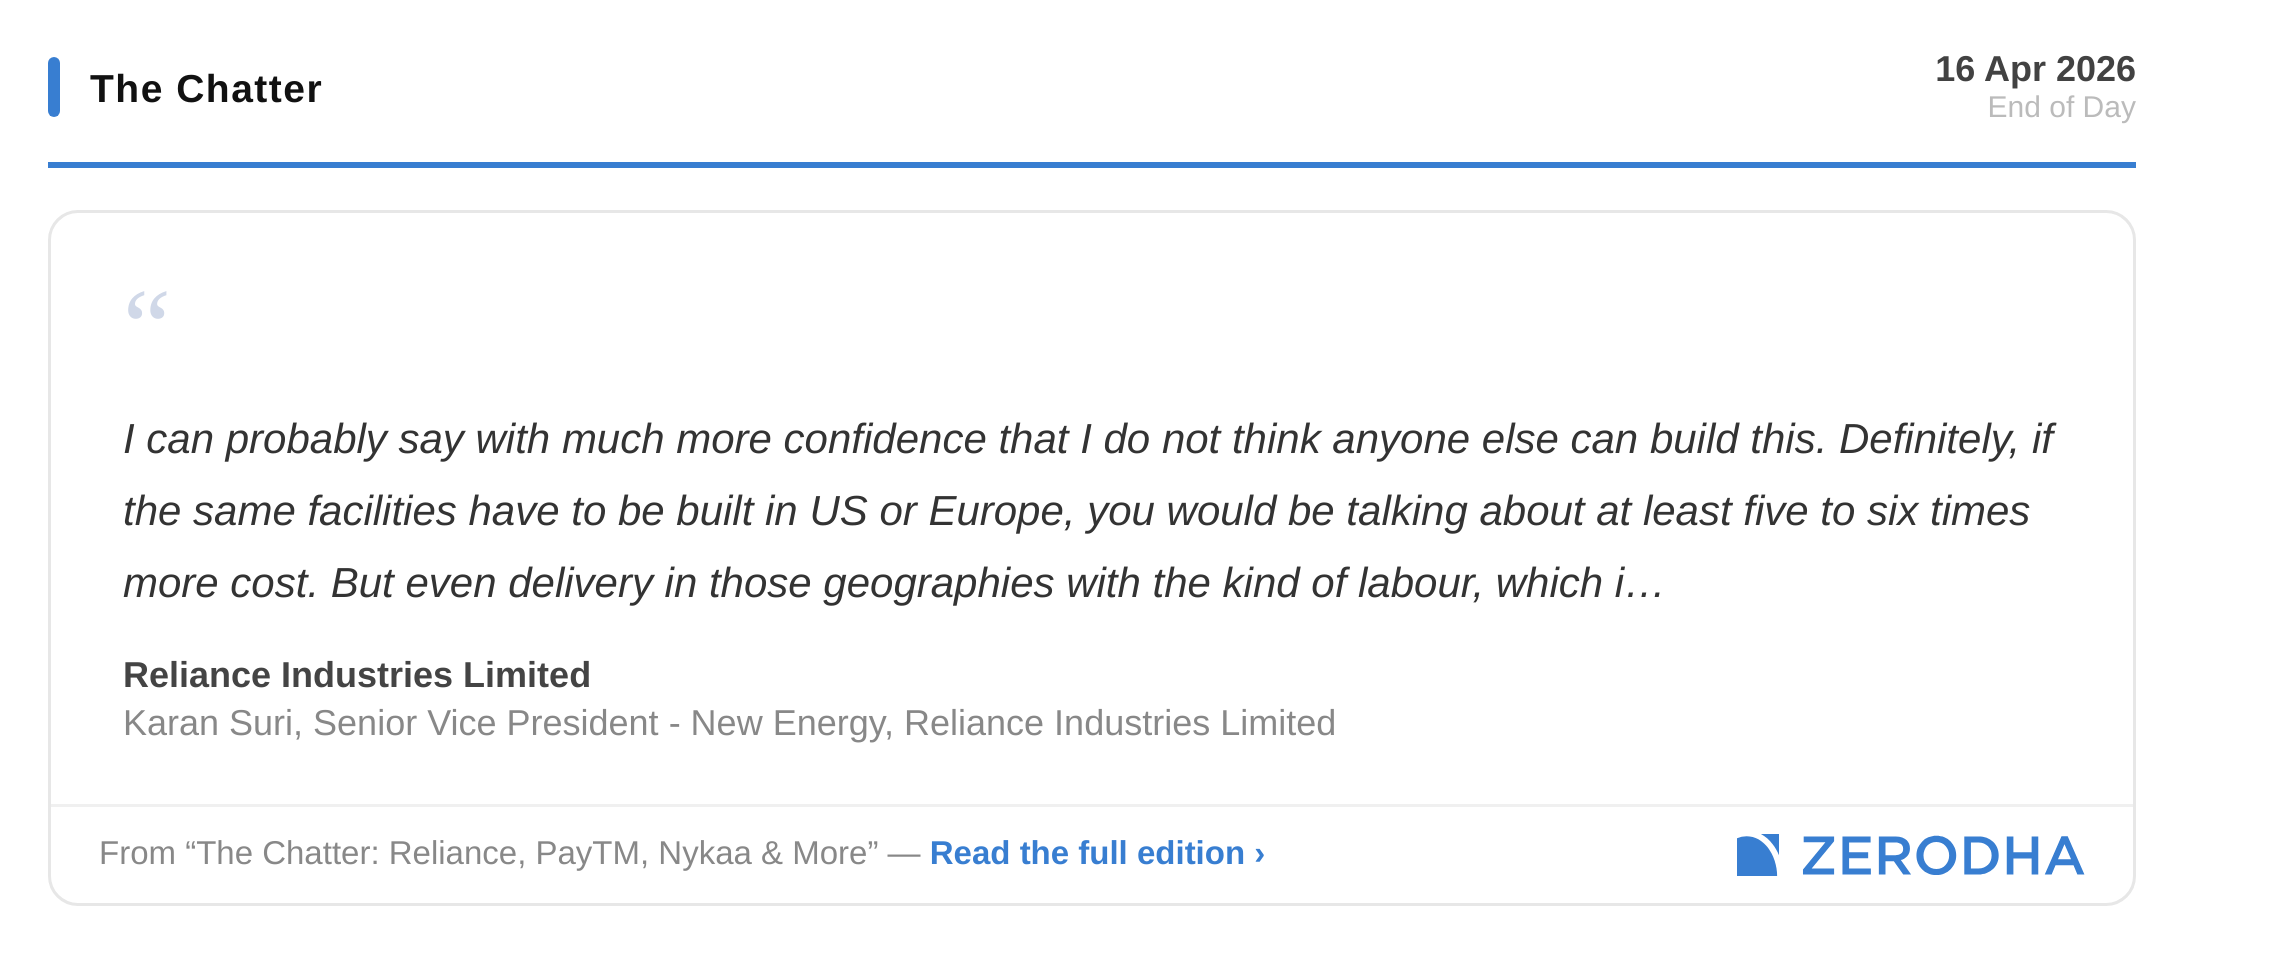
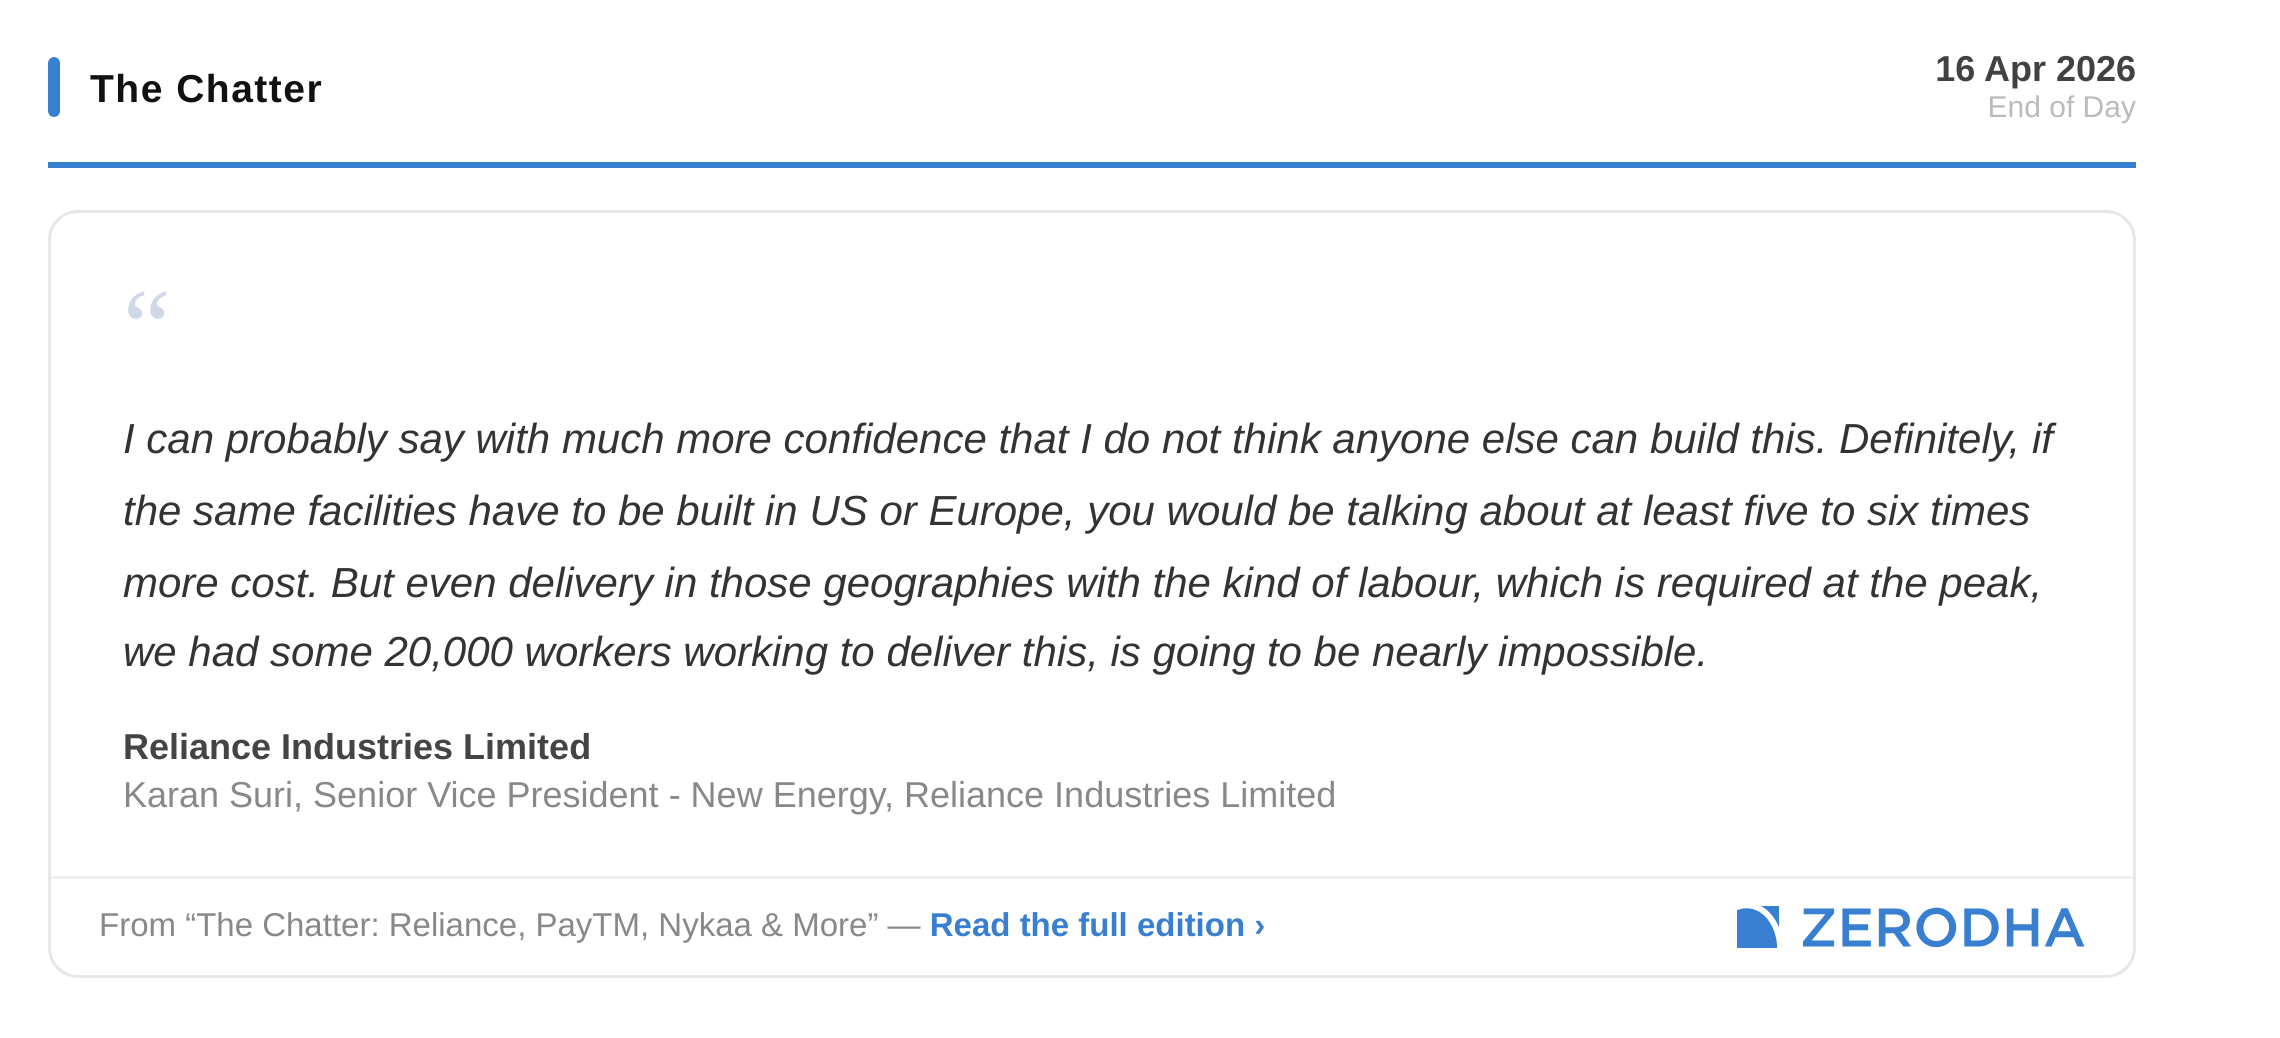
Newsletter: 2026-04-16

diff --git a/index.html b/index.html
@@ -311,7 +311,7 @@
     
   <div class="nl-section">
     <h2 class="nl-section-title">Broader Market</h2>
-    <div class="nl-body"><p>Midcap held its ground with a flat 0.03% gain, insulating itself from the largecap stumble. Metals stood out as the day's clear winner, with the Nifty Metal index rising 1.25% amid a broader commodity complex shift. IT added 0.58%, offering some diversification away from the troubled banking space. Auto fell the hardest at 0.73%, joining banks at the bottom. The narrow positive breadth hints that buyers are cherry-picking rather than committing fresh capital across the board.</p></div>
+    <div class="nl-body"></div>
     <div style="border:1px solid #E7E7E7;border-radius:8px;overflow:hidden;">
     <table style="width:100%;border-collapse:collapse;">
       <thead><tr>
@@ -578,7 +578,7 @@
     
   <div class="nl-section">
     <h2 class="nl-section-title">Global Markets</h2>
-    <div class="nl-body"><p>Key equity indices across US, Europe, and Asia Pacific.</p></div>
+    <div class="nl-body"></div>
     <div style="border:1px solid #E7E7E7;border-radius:8px;overflow:hidden;">
     <table style="width:100%;border-collapse:collapse;">
       <thead>
@@ -778,7 +778,7 @@
     
   <div class="nl-section">
     <h2 class="nl-section-title">Bond Yields & Currency</h2>
-    <div class="nl-body"><p>India G-Sec and US Treasury yields, with USD/INR.</p></div>
+    <div class="nl-body"></div>
     <div style="border:1px solid #E7E7E7;border-radius:8px;overflow:hidden;">
     <table style="width:100%;border-collapse:collapse;">
       <thead><tr>
@@ -1501,7 +1501,7 @@
     
   <div class="nl-section">
     <h2 class="nl-section-title">Earnings Calendar</h2>
-    <div class="nl-body"><p>Companies reporting results in the next 3 days.</p></div>
+    <div class="nl-body"><p>14 companies reporting over the next 2 days.</p></div>
     <div style="border:1px solid #E7E7E7;border-radius:8px;overflow:hidden;">
     <table style="width:100%;border-collapse:collapse;">
       <thead><tr>
@@ -1622,12 +1622,12 @@
     <div class="nl-body"><p>What India's biggest companies are saying — straight from earnings calls.</p></div>
     <div style="border:1px solid #E7E7E7;border-radius:8px;overflow:hidden;"><div style="padding:16px 20px;border-bottom:1px solid #F0F0F0;">
       <div style="font-size:28px;color:#D0D8E8;line-height:1;margin-bottom:6px;font-family:Georgia,serif;">&ldquo;</div>
-      <p style="font-size:13px;color:#333;line-height:1.65;margin:0 0 10px;font-style:italic;">Now, on an MGA side, I believe, MGA is the single most transformational move that can happen in the Insurance industry. And I believe that at not just a Policybazaar level, but at a strategic level. And why do I say that? See, when the distributor, who’s in touch with the consu…</p>
+      <p style="font-size:13px;color:#333;line-height:1.65;margin:0 0 10px;font-style:italic;">Now, on an MGA side, I believe, MGA is the single most transformational move that can happen in the Insurance industry. And I believe that at not just a Policybazaar level, but at a strategic level. And why do I say that? See, when the distributor, who’s in touch with the consumer, who understands the consumer, at that point, becomes responsible for both the underwriting and the claim settlement, and at a wholesale level, is working with the insurance company.</p>
       <div style="font-size:11px;font-weight:700;color:#444;margin-bottom:2px;">PB Fintech Limited</div>
       <div style="font-size:11px;color:#888;">Yashish Dahiya, Chairman & Group CEO</div>
     </div><div style="padding:16px 20px;border-bottom:1px solid #F0F0F0;">
       <div style="font-size:28px;color:#D0D8E8;line-height:1;margin-bottom:6px;font-family:Georgia,serif;">&ldquo;</div>
-      <p style="font-size:13px;color:#333;line-height:1.65;margin:0 0 10px;font-style:italic;">As I start, a very clear thing which is becoming crystal clear to almost everyone and specifically to us, is that people will buy insurance from the person who can help them at the point of claims. This is becoming super clear, and specifically in the Indian market. I think Pol…</p>
+      <p style="font-size:13px;color:#333;line-height:1.65;margin:0 0 10px;font-style:italic;">As I start, a very clear thing which is becoming crystal clear to almost everyone and specifically to us, is that people will buy insurance from the person who can help them at the point of claims. This is becoming super clear, and specifically in the Indian market. I think Policybazaar, with the efforts that it has put over the last 3-4 years, is clearly outstanding in that space, and that is leading to a huge amount of positive PR.</p>
       <div style="font-size:11px;font-weight:700;color:#444;margin-bottom:2px;">PB Fintech Limited</div>
       <div style="font-size:11px;color:#888;">Yashish Dahiya, Chairman & Group CEO</div>
     </div><div style="padding:16px 20px;border-bottom:1px solid #F0F0F0;">
@@ -1637,7 +1637,7 @@
       <div style="font-size:11px;color:#888;">Mohit Malhotra, Chief Executive Officer</div>
     </div><div style="padding:16px 20px;">
       <div style="font-size:28px;color:#D0D8E8;line-height:1;margin-bottom:6px;font-family:Georgia,serif;">&ldquo;</div>
-      <p style="font-size:13px;color:#333;line-height:1.65;margin:0 0 10px;font-style:italic;">I can probably say with much more confidence that I do not think anyone else can build this. Definitely, if the same facilities have to be built in US or Europe, you would be talking about at least five to six times more cost. But even delivery in those geographies with the kin…</p>
+      <p style="font-size:13px;color:#333;line-height:1.65;margin:0 0 10px;font-style:italic;">I can probably say with much more confidence that I do not think anyone else can build this. Definitely, if the same facilities have to be built in US or Europe, you would be talking about at least five to six times more cost. But even delivery in those geographies with the kind of labour, which is required at the peak, we had some 20,000 workers working to deliver this, is going to be nearly impossible.</p>
       <div style="font-size:11px;font-weight:700;color:#444;margin-bottom:2px;">Reliance Industries Limited</div>
       <div style="font-size:11px;color:#888;">Karan Suri, Senior Vice President - New Energy, Reliance Industries Limited</div>
     </div><div style="padding:9px 16px;font-size:11px;color:#888;border-top:1px solid #F0F0F0;display:flex;align-items:center;justify-content:space-between;">
